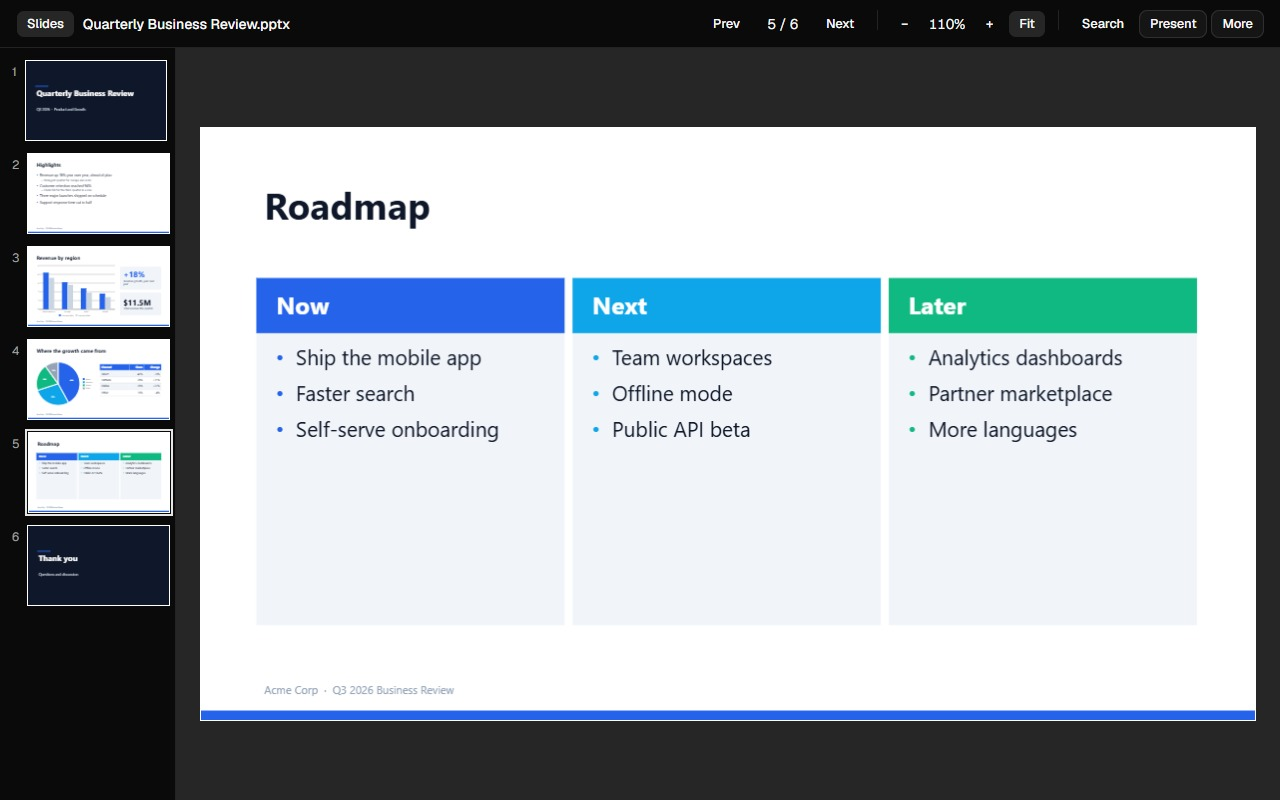
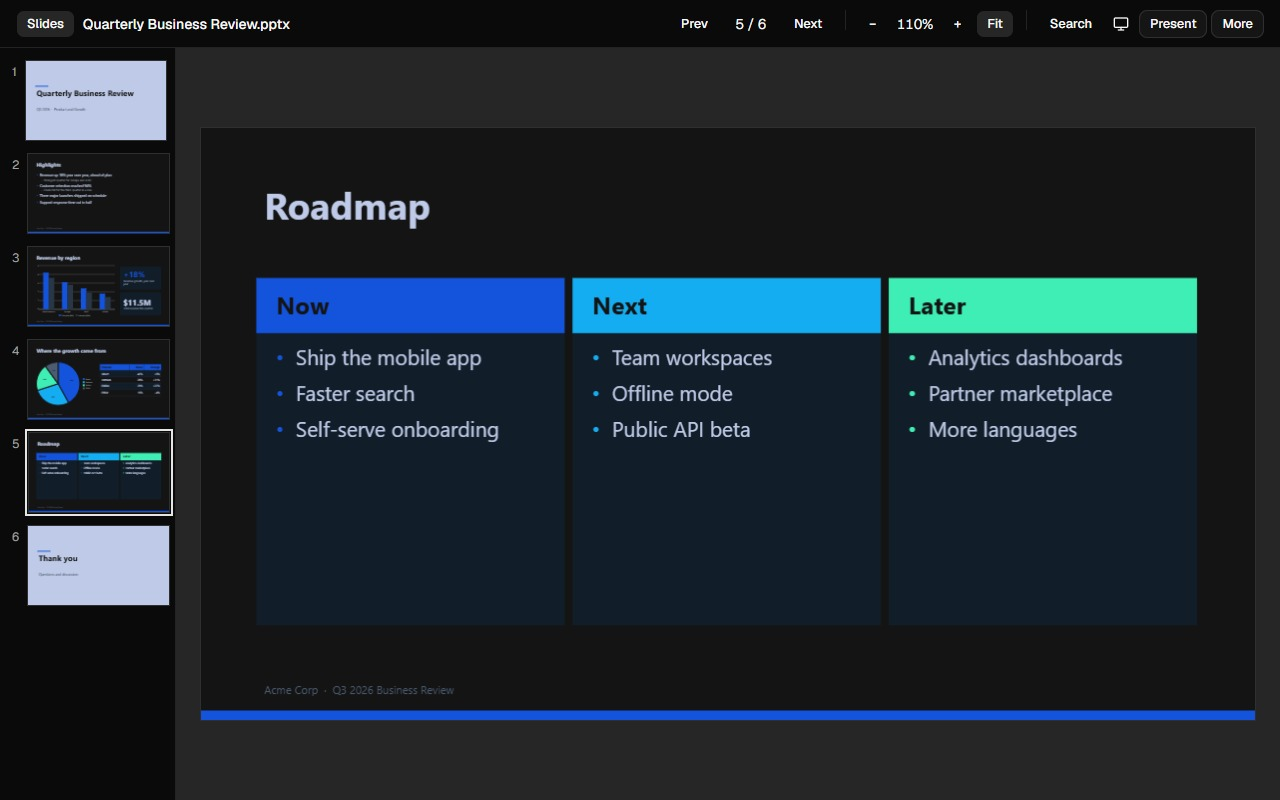
release: Opendeck 1.2.0 (dark mode, wheel navigation), docs and store images

diff --git a/README.md b/README.md
@@ -39,7 +39,9 @@ See [PRIVACY.md](PRIVACY.md) for exactly what is processed, stored and requested
 **Viewing**
 
 - The slide fits the window by default; zoom in and out, or press `0` to fit again.
-- Slide list with lazily rendered thumbnails; light and dark themes follow the system.
+- Slide list with lazily rendered thumbnails.
+- **Dark mode:** an Auto / Light / Dark toggle in the header (saved in the browser). In dark mode slide colours are inverted with their hue kept (a white slide turns near-black, black text turns near-white) while pictures are left alone; the *Invert slides in dark mode* switch in the More menu and Settings turns that off. Printing, copying and PNG export are never inverted.
+- **Mouse wheel:** scroll to change slides (one slide per flick). When the slide is zoomed in beyond the window, the wheel scrolls it and changes slides at its edge. `Ctrl` + wheel zooms. The same works in the slideshow.
 - Search slide text, table cells and speaker notes (`Ctrl+F`). Matching slides are marked in the slide list.
 - Copy the current slide as an image or as text, copy a text outline of the whole deck (with notes), print or save as PDF, or export every slide as a ZIP of PNGs.
 
@@ -95,6 +97,7 @@ On first install, the Settings page opens. To have downloads and right-clicked l
 | --- | --- |
 | `←` `→` `↑` `↓`, `Home`, `End` | Previous / next slide, first / last slide |
 | `+` `−`, `Ctrl` + wheel | Zoom in / out |
+| Mouse wheel | Next / previous slide (in the slideshow: next / previous build) |
 | `0` | Fit the slide to the window |
 | `T` | Show or hide the slide list |
 | `Ctrl+F` | Search slides and notes (`Enter` / `Shift+Enter` for next / previous match) |

diff --git a/store/LISTING.md b/store/LISTING.md
@@ -29,7 +29,8 @@ OPEN FILES YOUR WAY
 
 VIEW AND FIND
 • Fits the slide to your window; zoom when you need to
-• Slide list with thumbnails; light and dark themes follow your system
+• Slide list with thumbnails; scroll the mouse wheel to change slides
+• Dark mode with colour-inverted slides (switch Auto, Light or Dark, and turn inversion off if you like)
 • Search slide text, tables and speaker notes (Ctrl+F)
 
 PRESENT
@@ -96,7 +97,7 @@ Upload in this order and add the captions if the dashboard asks for them.
 | `screenshots/1-view.jpg` | Fits every slide to your window, with a slide list and charts drawn from the file |
 | `screenshots/2-search.jpg` | Search slide text, tables and speaker notes |
 | `screenshots/3-more-menu.jpg` | Copy a slide as an image or text, print or save as PDF, export PNGs |
-| `screenshots/4-dark.jpg` | Light and dark themes follow your system |
+| `screenshots/4-dark.jpg` | Dark mode inverts slide colours; pictures stay as they are |
 | `screenshots/5-speaker-view.jpg` | Full-screen slideshow with speaker notes, next slide and a timer |
 
 Promotional images: `promo/small-tile.jpg` (440 x 280) and `promo/marquee.jpg` (1400 x 560).

diff --git a/store/RELEASE_NOTES_v1.2.0.md b/store/RELEASE_NOTES_v1.2.0.md
@@ -1,0 +1,12 @@
+# Opendeck 1.2.0
+
+## New
+
+- **Dark mode with colour inversion.** A header button cycles Auto, Light and Dark (saved in your browser). In dark mode slides are drawn with inverted colours: white backgrounds become near-black and black text becomes near-white, hues are kept and pictures are left alone. *Invert slides in dark mode* (More menu and Settings) turns the inversion off. Printing, copying and PNG export always use the original colours.
+- **Mouse-wheel navigation.** Scroll to move between slides, one slide per flick. A slide zoomed in beyond the window scrolls first and changes slides at its edge. `Ctrl` + wheel still zooms. In the slideshow the wheel plays the next or previous build.
+
+## Also
+
+- Smoke tests for dark mode and wheel navigation.
+
+PowerPoint is a trademark of Microsoft Corporation. Opendeck is an independent project and is not affiliated with or endorsed by Microsoft.
